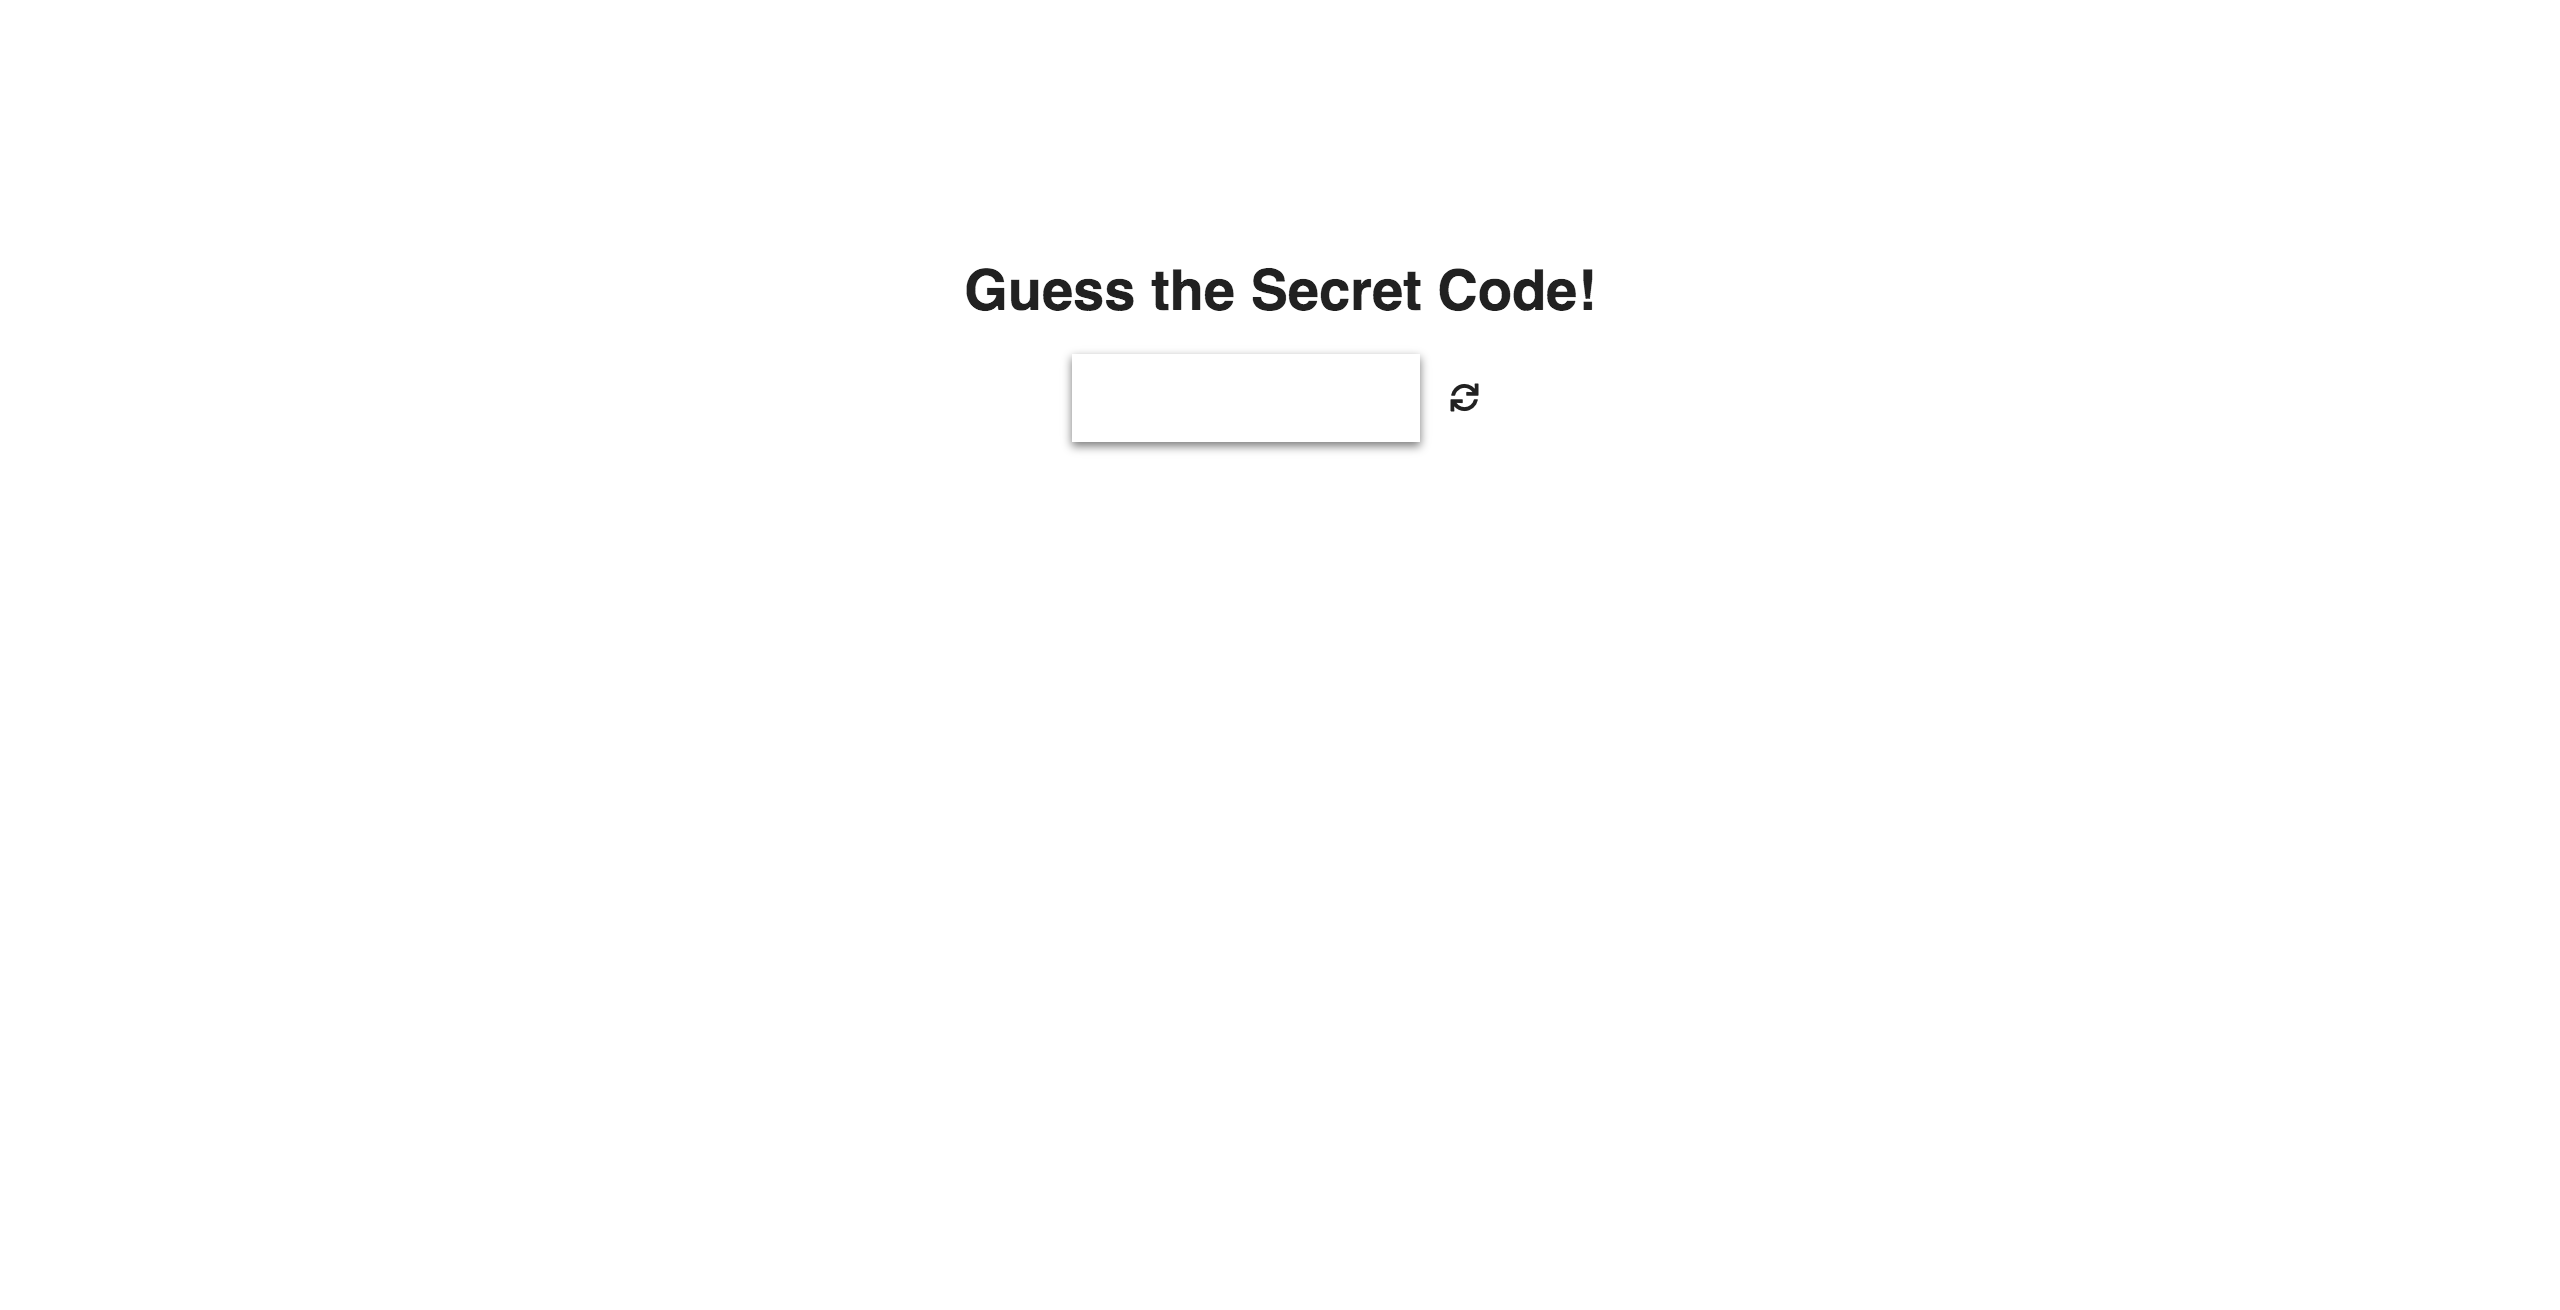
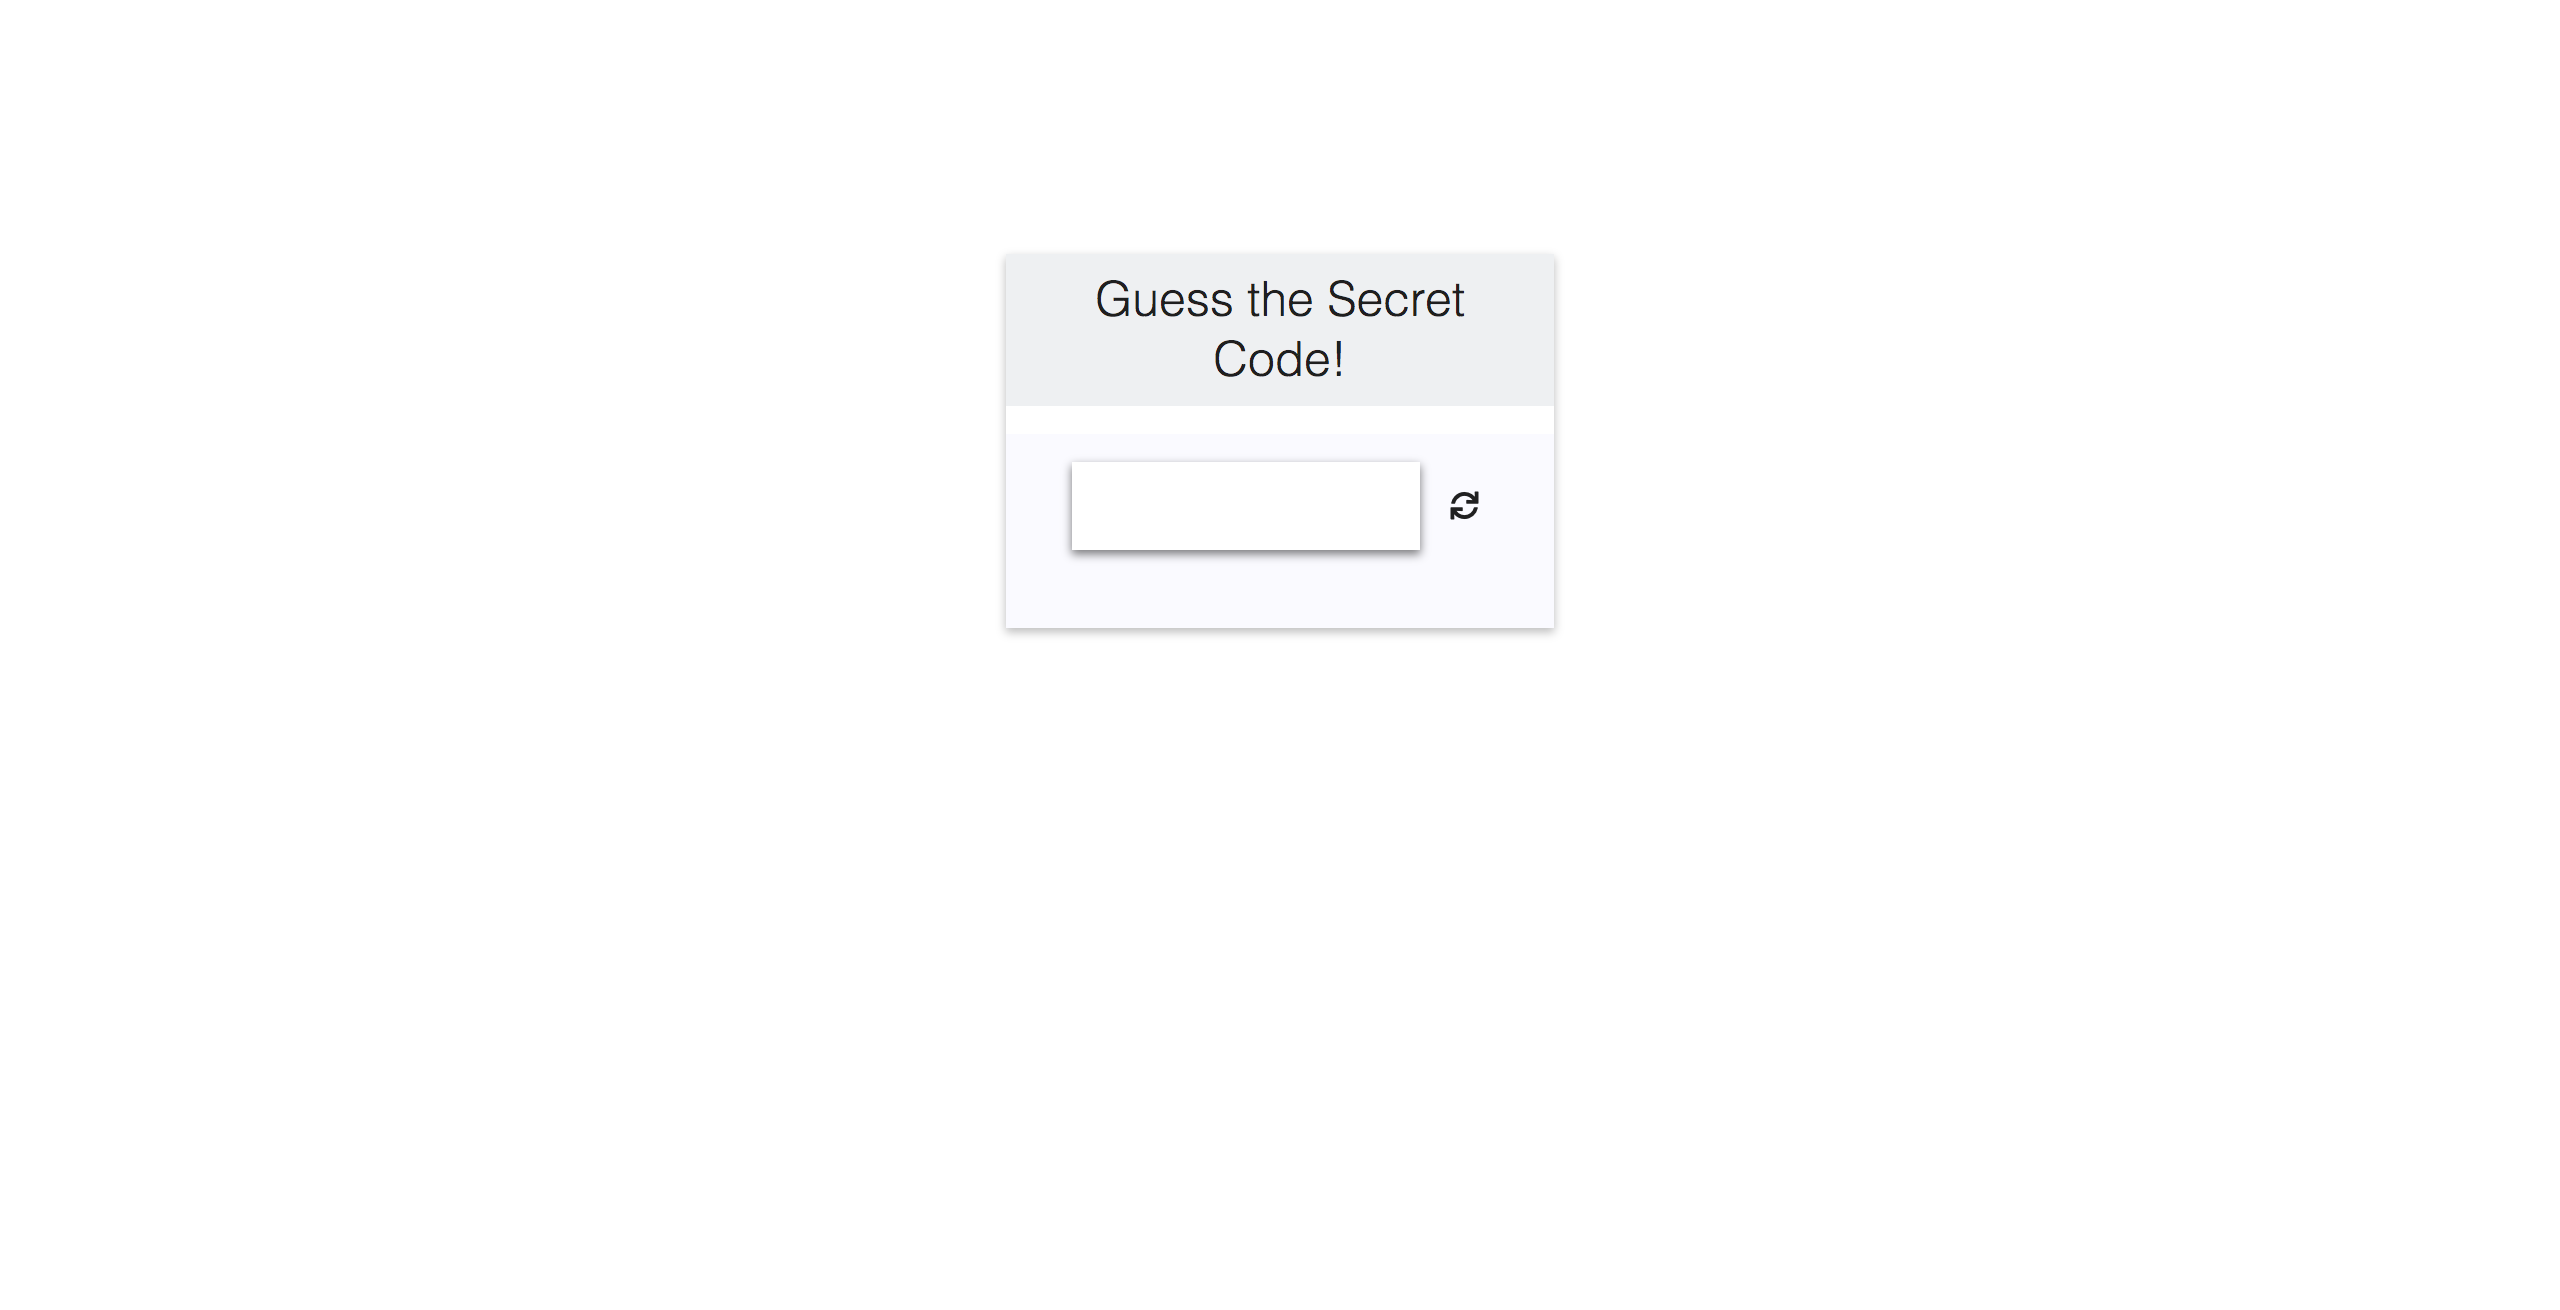
improved styling on key detection

diff --git a/src/components/12_KeyDetection.js b/src/components/12_KeyDetection.js
@@ -16,7 +16,7 @@ class KeyDetection extends React.Component {
   }
 
   handleReset = () => this.setState({ win: false, pressed: [], input: '' });
-  
+
   handleChange = e => {
     const { pressed, input } = this.state;
     this.setState({ pressed: [...pressed, e.key], input: input + e.key });
@@ -27,10 +27,14 @@ class KeyDetection extends React.Component {
     return (
       <Container>
         <span>
-          <h1>Guess the Secret Code!</h1>
-          <input value={input} onKeyUp={this.handleChange} />
-          <Icon name="refresh" onClick={this.handleReset} />
-          <h3>{win && 'DING DING DING!!!'}</h3>
+          <div className="header">
+            <h2>Guess the Secret Code!</h2>
+          </div>
+          <div className="input-wrap">
+            <input value={input} onKeyUp={this.handleChange} />
+            <Icon name="refresh" onClick={this.handleReset} />
+            <h3>{win && 'DING DING DING!!!'}</h3>
+          </div>
         </span>
       </Container>
     );
@@ -53,6 +57,21 @@ const Container = styled.div`
 
   i.icon {
     cursor: pointer;
+  }
+
+  span {
+    box-shadow: 0 2px 6px 0 rgba(0, 0, 0, 0.25);
+  }
+
+  .header {
+    background-color: #eef0f2;
+    padding: 3%;
+  }
+
+  .input-wrap {
+    background-color: #fafaff;
+    margin-top: 5%;
+    padding: 5%;
   }
 `;
 
